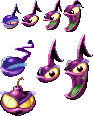
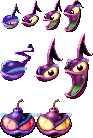
just shot

diff --git a/app.js b/app.js
@@ -147,10 +147,11 @@ class Cannon extends Sprite {
 
 
 class Note extends Sprite {
-    constructor(canvasCtx, note, duration, sx, sy, width, height, frames, shotAnimationPeriod) {
+    constructor(canvasCtx, note, duration, velocity, sx, sy, width, height, frames, shotAnimationPeriod) {
         super(canvasCtx, "note.png", 34 * (note - FIRST_NOTE) + 66, -40, width, height, frames, 1)
         this.note = note
         this.duration = duration
+        this.velocity = velocity
         this.sx = sx
         this.sy = sy
         this.shotAnimationPeriod = shotAnimationPeriod
@@ -159,18 +160,13 @@ class Note extends Sprite {
     }
 
     animate() {
-        if (this.shot) {
-            this.frame = Math.floor(this.time/this.shotAnimationPeriod) % this.frames
-        } else {
-            this.frame = Math.floor(this.time/10) % this.frames
-        }
+        this.frame = Math.floor(this.time/10) % this.frames
         this.time++
     }
 
     draw() {
-        if (this.shot && this.frame == 1) {
+        if (this.shot) {
             this.drawShot()
-            this.animate()
         } else {
             super.draw()
         }
@@ -181,51 +177,64 @@ class Note extends Sprite {
     }
 
     explose() {
-        playNoise(0.3, 0.4, 1400)
         return new Sprite(this.canvasCtx, "tiny-explosion.png", this.x, this.y, 16, 16, 7)
+    }
+
+    playNoise() {
+        playNoise(0.3, 0.4, 1400)
     }
 }
 
 
 class Sixteenth extends Note {
-    constructor(canvasCtx, note, duration) {
-        super(canvasCtx, note, duration, 21, 0, 21, 32, 2, 2)
+    constructor(canvasCtx, note, duration, velocity) {
+        super(canvasCtx, note, duration, velocity, 21, 0, 21, 32, 2, 2)
     }
 }
 
 
 class Eighth extends Note {
-    constructor(canvasCtx, note, duration) {
-        super(canvasCtx, note, duration, 42, 0, 21, 32, 2, 2)
+    constructor(canvasCtx, note, duration, velocity) {
+        super(canvasCtx, note, duration, velocity, 42, 0, 21, 32, 2, 2)
     }
 }
 
 
 class Quarter extends Note {
-    constructor(canvasCtx, note, duration) {
-        super(canvasCtx, note, duration, 36, 32, 28, 68, 2, 4)
+    constructor(canvasCtx, note, duration, velocity) {
+        super(canvasCtx, note, duration, velocity, 34, 33, 30, 66, 2, 4)
     }
 
     drawShot() {
-        canvasCtx.drawImage(this.sprite, 0, 40, 34, 37, this.dx+2, this.dy+16, 34, 37)
+        canvasCtx.drawImage(this.sprite, 0, 34, 35, 67, this.dx, this.dy, 35, 67)
     }
 
     explose() {
-        playNoise(0.5, 0.5, 1000)
         return new Sprite(this.canvasCtx, "little-explosion.png", this.x, this.y, 33, 33, 5)
+    }
+
+    playNoise() {
+        playNoise(0.5, 0.5, 1000)
     }
 }
 
 class Whole extends Note {
-    constructor(canvasCtx, note, duration) {
-        super(canvasCtx, note, duration, 0, 78, 36, 40, 1)
+    constructor(canvasCtx, note, duration, velocity) {
+        super(canvasCtx, note, duration, velocity, 36, 99, 36, 40, 1)
     }
 
     animate() {}
 
+    drawShot() {
+        canvasCtx.drawImage(this.sprite, 0, this.sy, this.sWidth, this.sHeight, this.dx, this.dy, this.dWidth, this.dHeight)
+    }
+
     explose() {
-        playNoise(0.8, 0.7, 400)
         return new Sprite(canvasCtx, "big-explosion.png", this.x, this.y, 48, 48, 8)
+    }
+
+    playNoise() {
+        playNoise(0.8, 0.7, 400)
     }
 }
 
@@ -447,14 +456,16 @@ function update() {
         let explosionSprite = noteSprite.explose()
         explosionSprites.push(explosionSprite)
         explosionSprite.play().then(() => explosionSprites.remove(explosionSprite))
+        noteSprite.playNoise()
     })
     noteSprites = noteSprites.filter(note => note.y < FLOOR)
 
-    cannonSprites.forEach(cannonSprite => {
+    /*cannonSprites.forEach(cannonSprite => {
         let noteSprite = noteSprites.find(noteSprite => noteSprite.note == cannonSprite.note)
         if (noteSprite) {
             noteSprite.shot = cannonSprite.shooting
             if (noteSprite.shot) {
+                
                 noteSprite.duration -= UPDATE_PERIOD
                 if (noteSprite.duration > 0) {
                     playNote(cannonSprite.note)
@@ -473,10 +484,23 @@ function update() {
             stopNote(cannonSprite.note)
             cannonSprite.impactY = 0
         }
+    })*/
+    cannonSprites.filter(cannonSprite => cannonSprite.shooting).forEach(cannonSprite => {
+        let noteSprite = noteSprites.find(noteSprite => noteSprite.note == cannonSprite.note)
+        if (noteSprite) {
+            playNote(noteSprite.note, noteSprite.velocity, noteSprite.duration)
+            noteSprite.shot = true
+            window.setTimeout(() => {
+                noteSprites.remove(noteSprite)
+                let explosionSprite = noteSprite.explose()
+                explosionSprites.push(explosionSprite)
+                explosionSprite.play().then(() => explosionSprites.remove(explosionSprite))
+            }, noteSprite.duration * 1000)
+        }
     })
 }
 
-function playNote(note, velocity=0.7) {
+function playNote(note, velocity=0.7, duration=0) {
     if(oscillators[note]) return
 
     var oscillator = audioCtx.createOscillator()
@@ -492,17 +516,22 @@ function playNote(note, velocity=0.7) {
 
     depth.connect(oscillator.detune)
 
-    oscillators[note] = oscillator
+    if (duration) {
+        oscillator.velocity.gain.setValueCurveAtTime([velocity, velocity/10, velocity/20, 0], audioCtx.currentTime + duration, 0.5)
+        oscillator.stop(audioCtx.currentTime + duration + 0.6)
+    } else {
+        oscillators[note] = oscillator
+    }
 }
 
-function stopNote(note) {
+function stopNote(note, delay=0) {
     if(!oscillators[note]) return
 
     velocity = oscillators[note].velocity.gain.value
-    oscillators[note].velocity.gain.setValueCurveAtTime([velocity, velocity/10, velocity/20, 0], audioCtx.currentTime + 0.1, 0.5)
-    oscillators[note].stop(audioCtx.currentTime + 0.6)
+    oscillators[note].velocity.gain.setValueCurveAtTime([velocity, velocity/10, velocity/20, 0], audioCtx.currentTime + delay + 0.1, 0.5)
+    oscillators[note].stop(audioCtx.currentTime + delay + 0.6)
     
-    delete(oscillators[note])    
+    delete(oscillators[note])
 }
 
 function playNoise(noiseDuration, startGain=0.5, bandHz=1000) {
